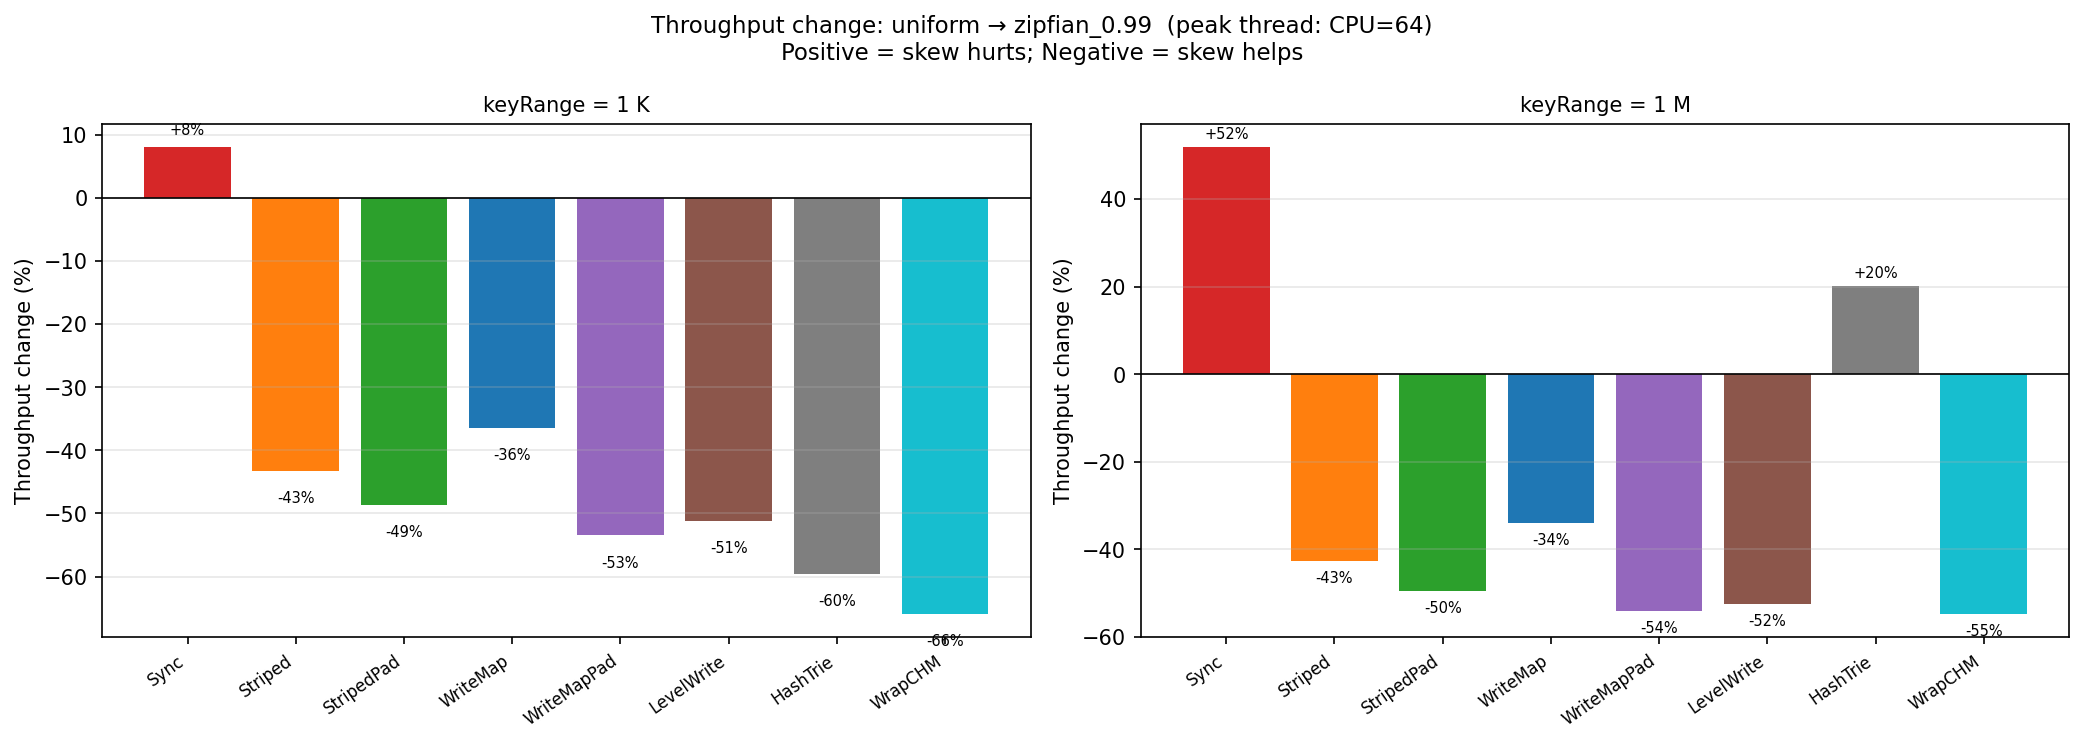
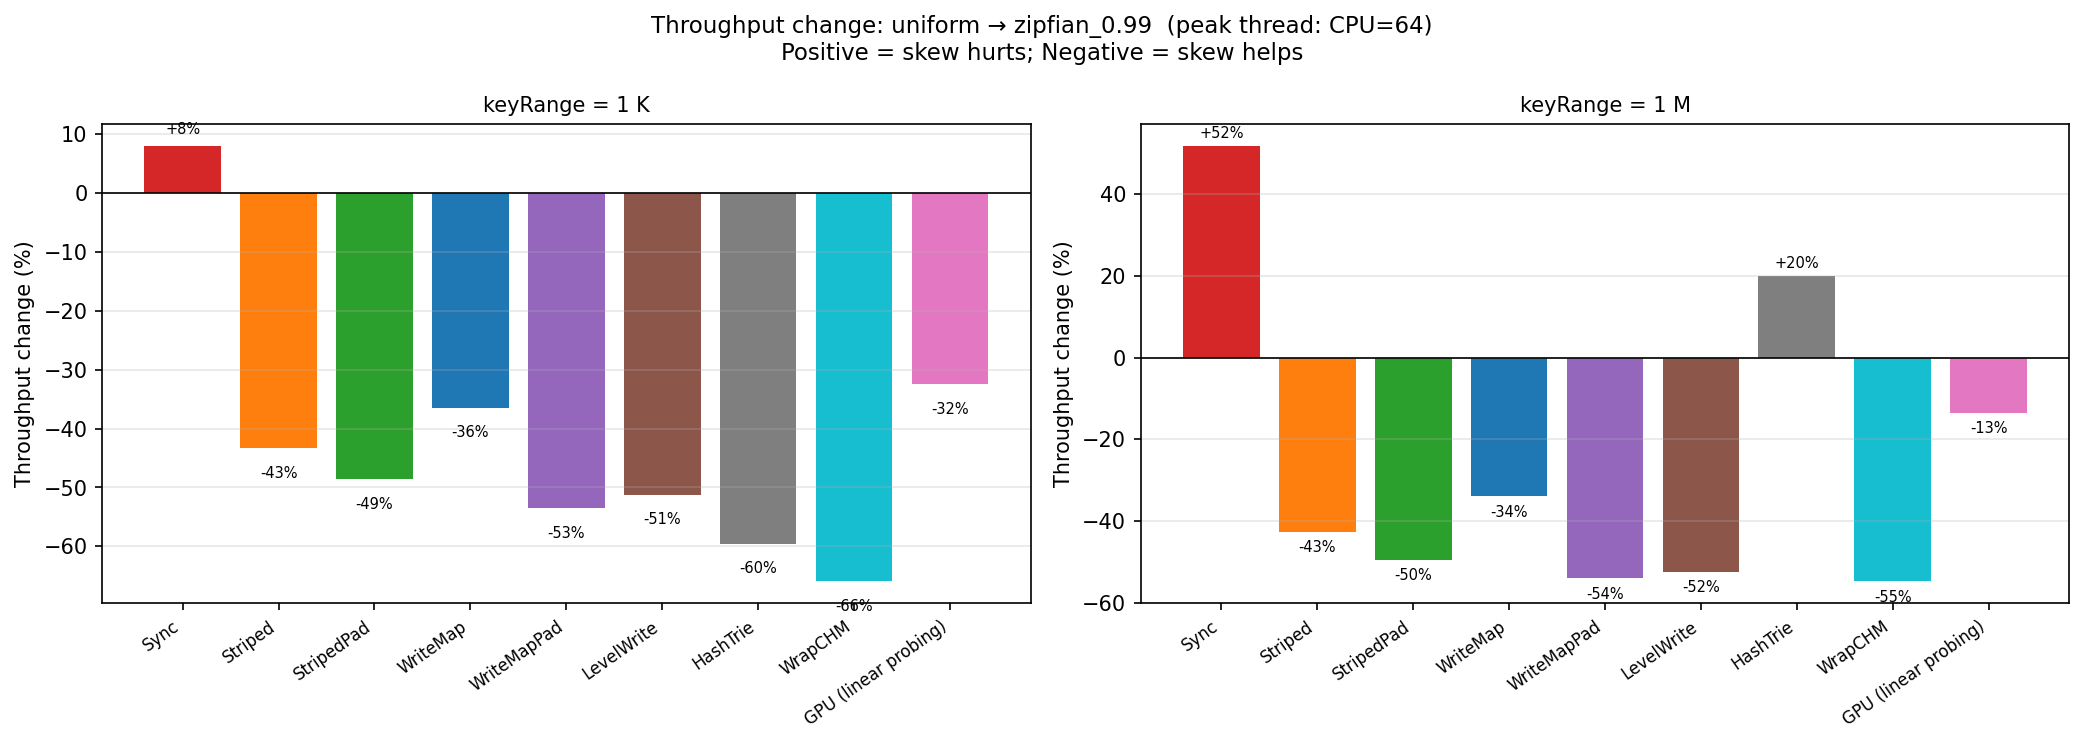
results

diff --git a/main/compare_hardware.py b/main/compare_hardware.py
@@ -252,7 +252,7 @@ def fig_read_ratio(cpu: pd.DataFrame, gpu: pd.DataFrame, out_dir: str):
     peak_thread = cpu["threads"].max()
     read_ratios = sorted(cpu["readRatio"].unique())
 
-    fig, axes = plt.subplots(1, 2, figsize=(12, 5), sharey=False)
+    fig, axes = plt.subplots(1, 2, figsize=(12, 5), sharey=True)
     fig.suptitle(
         f"Throughput vs read ratio — CPU ({peak_thread} threads) vs GPU\n"
         "Geometric mean across distributions",